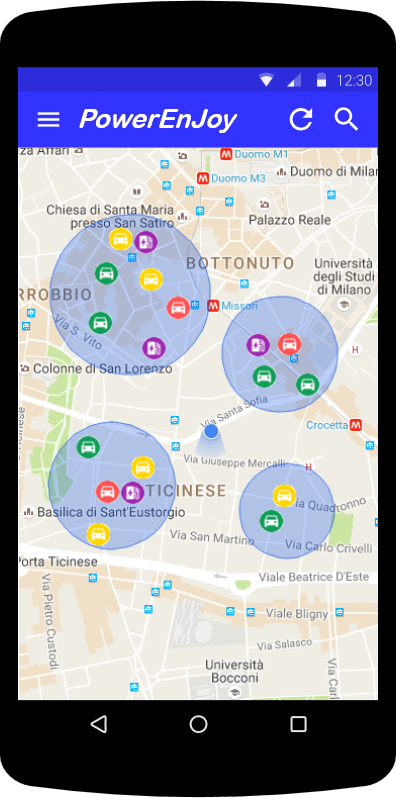
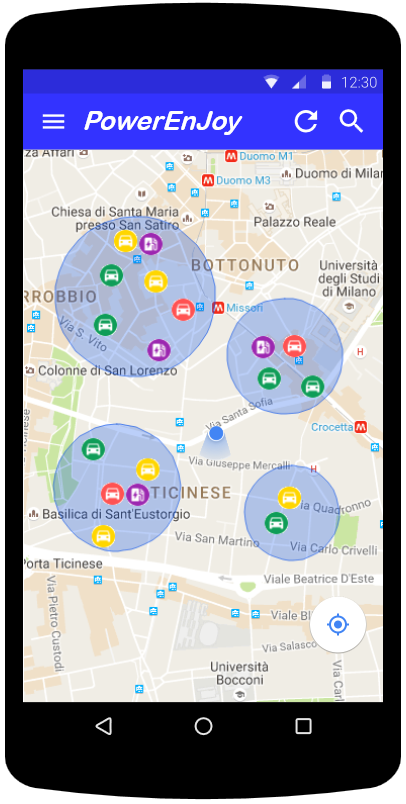
added car unlock mockup and other changes

diff --git a/src/rasd/overall_description/product_perspective.tex b/src/rasd/overall_description/product_perspective.tex
@@ -48,6 +48,17 @@ The legend of the battery level is the following:
 
 From the Main page, when the user select a car a bottom sheets slides up from the bottom of the screen to reveal the car information and a marker will appear over the car that he/she selected. You can reserve the car by clicking on the blue bottom with the timer icon (a yes/no confirmation will appear). You can see this screen in figure \ref{fig:mockup_car_selection}.
 
+\subsubsection*{Car unlock}
+
+\begin{figure}
+	\centering
+	\includegraphics[width=\textwidth,height=\dimexpr\textheight-4\baselineskip-\abovecaptionskip-\belowcaptionskip\relax,keepaspectratio]{overall_description/mockup/car_unlock.png}
+	\caption{Car unlock.}
+	\label{fig:mockup_car_unlock}
+\end{figure}
+
+After the reservation of the car, you can see how the screen changes in figure \ref{fig:mockup_car_unlock}. The user can find indications to the car by pressing the white button that appears and when he/she is near to the car he/she can press the button with the key. Then, to unlock the car, his/her password will be required.
+
 \subsection{Hardware interfaces}
 In the system there are the following hardware interfaces:
 \begin{description}
@@ -60,6 +71,8 @@ In the system there are the following hardware interfaces:
 The mobile app will be developed both for IOS and Android, so the system will use the API of these operating systems to access to the GPS of the smartphone and maps.
 
 Furthermore, the HandyCar Board provides some simple API, in order to control the board remotely through the Internet.
+
+The other software interfaces that we have are the external payment	gateway and the motorization gateway.
 
 
 
